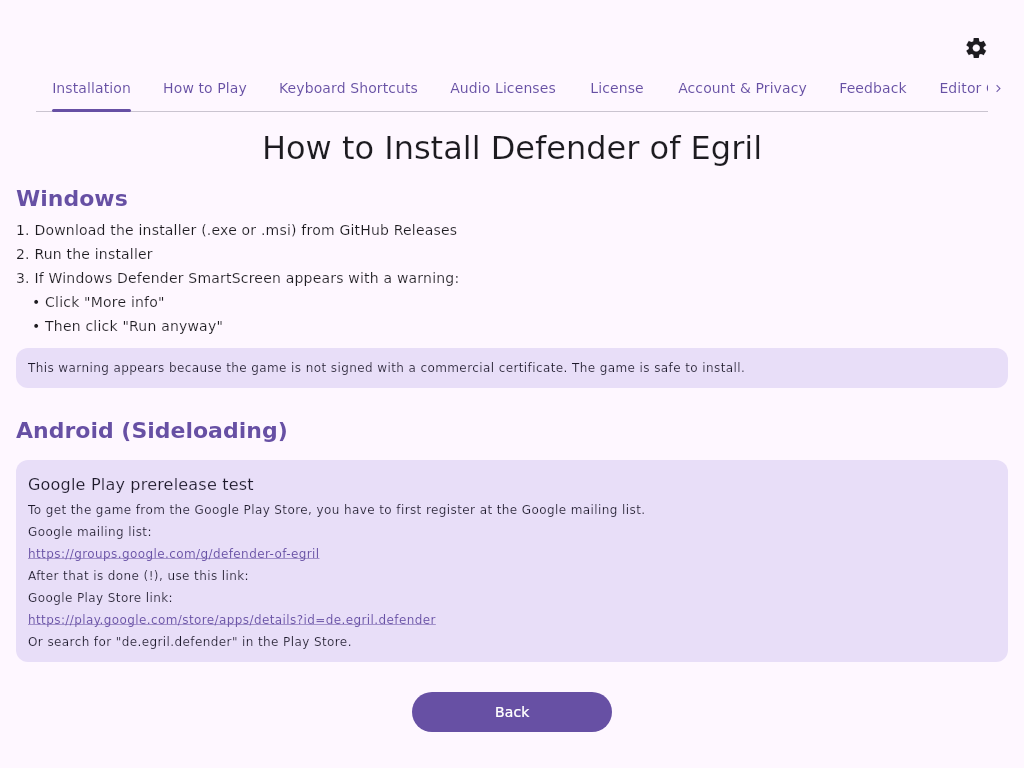
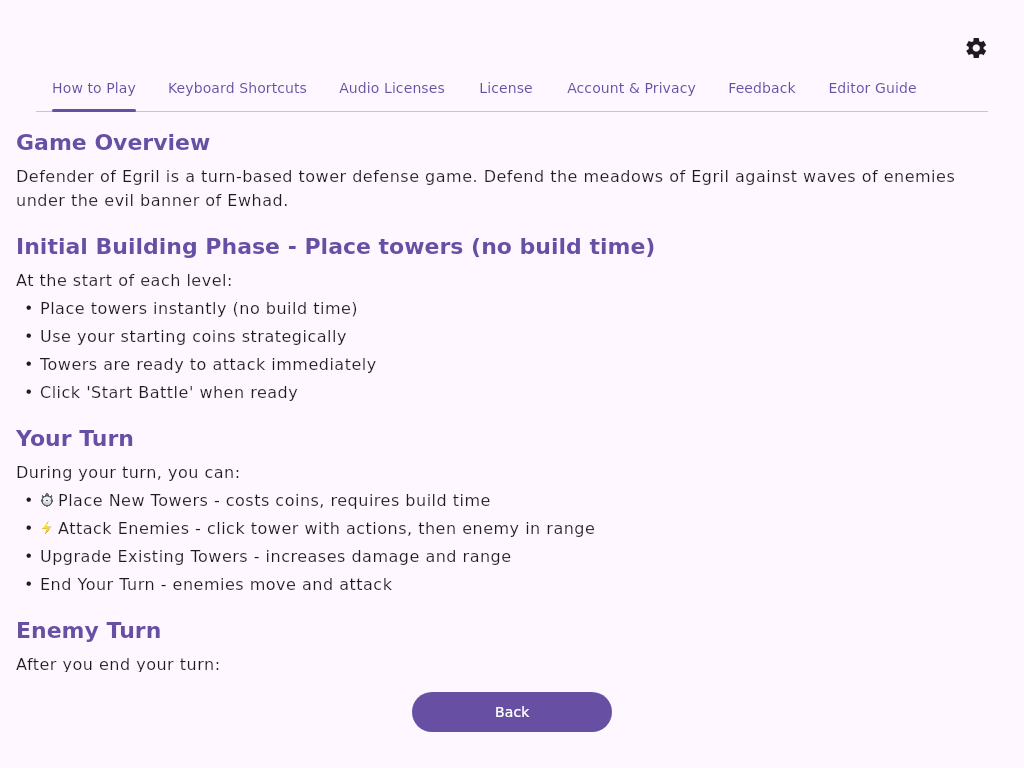
Show Installation tab only on web in Info page (#441)
* Hide installation tab on non-web info pages

* test: validate web-only installation tab behavior

* Refine info tab fallback safety for web-only installation tab

diff --git a/frontend/composeApp/src/commonMain/kotlin/de/egril/defender/ui/infopage/InfoPageScreen.kt b/frontend/composeApp/src/commonMain/kotlin/de/egril/defender/ui/infopage/InfoPageScreen.kt
@@ -40,6 +40,22 @@ internal fun shouldUseCompactInfoHeaderLayout(
     isLandscape: Boolean
 ): Boolean = isMobileWeb && isLandscape
 
+internal fun buildVisibleInfoTabs(
+    showDownloadTab: Boolean,
+    showInstallationTab: Boolean,
+    showEditorHowToTab: Boolean
+): List<InfoTab> = buildList {
+    if (showDownloadTab) add(InfoTab.DOWNLOAD)
+    if (showInstallationTab) add(InfoTab.INSTALLATION)
+    add(InfoTab.HOW_TO_PLAY)
+    add(InfoTab.KEYBOARD_SHORTCUTS)
+    add(InfoTab.AUDIO_LICENSES)
+    add(InfoTab.LICENSE)
+    add(InfoTab.BACKEND)
+    add(InfoTab.FEEDBACK)
+    if (showEditorHowToTab) add(InfoTab.EDITOR_HOWTO)
+}
+
 @Composable
 fun InfoPageScreen(
     onBack: () -> Unit,
@@ -47,23 +63,21 @@ fun InfoPageScreen(
 ) {
     var selectedTab by remember { mutableStateOf(initialTab) }
 
-    val visibleTabs = remember(isEditorAvailable()) {
-        buildList {
-            if (isPlatformWasm && WithImpressum.withImpressum) add(InfoTab.DOWNLOAD)
-            add(InfoTab.INSTALLATION)
-            add(InfoTab.HOW_TO_PLAY)
-            add(InfoTab.KEYBOARD_SHORTCUTS)
-            add(InfoTab.AUDIO_LICENSES)
-            add(InfoTab.LICENSE)
-            add(InfoTab.BACKEND)
-            add(InfoTab.FEEDBACK)
-            if (isEditorAvailable()) add(InfoTab.EDITOR_HOWTO)
-        }
+    val editorAvailable = isEditorAvailable()
+    val showInstallationTab = isPlatformWasm
+    val visibleTabs = remember(editorAvailable, showInstallationTab) {
+        buildVisibleInfoTabs(
+            showDownloadTab = isPlatformWasm && WithImpressum.withImpressum,
+            showInstallationTab = showInstallationTab,
+            showEditorHowToTab = editorAvailable
+        )
     }
+    // Defensive guard: keep behavior safe if future tab visibility rules are tightened.
+    require(visibleTabs.isNotEmpty()) { "InfoPageScreen requires at least one visible tab" }
 
-    // If the initial tab is not visible (e.g. EDITOR_HOWTO on mobile), fall back to INSTALLATION
+    // If the initial tab is not visible (e.g. hidden on this platform), fall back to the first visible tab
     if (selectedTab !in visibleTabs) {
-        selectedTab = InfoTab.INSTALLATION
+        selectedTab = visibleTabs.first()
     }
 
     val selectedTabIndex = visibleTabs.indexOf(selectedTab).coerceAtLeast(0)
@@ -131,8 +145,12 @@ fun InfoPageScreen(
                         }
                         Key.I -> {
                             if (selectedTab == InfoTab.DOWNLOAD && !event.isCtrlPressed && !event.isAltPressed) {
-                                selectedTab = InfoTab.INSTALLATION
-                                true
+                                if (InfoTab.INSTALLATION in visibleTabs) {
+                                    selectedTab = InfoTab.INSTALLATION
+                                    true
+                                } else {
+                                    false
+                                }
                             } else {
                                 false
                             }
@@ -245,7 +263,15 @@ fun InfoPageScreen(
                         InfoTab.BACKEND -> BackendInfo(scrollState = contentScrollState)
                         InfoTab.FEEDBACK -> FeedbackInfo(scrollState = contentScrollState)
                         InfoTab.EDITOR_HOWTO -> EditorHowToContent(scrollState = contentScrollState)
-                        InfoTab.DOWNLOAD -> DownloadInfo(onNavigateToInstallation = { selectedTab = InfoTab.INSTALLATION }, scrollState = contentScrollState, linkFocusManager = linkFocusManager)
+                        InfoTab.DOWNLOAD -> DownloadInfo(
+                            onNavigateToInstallation = {
+                                if (InfoTab.INSTALLATION in visibleTabs) {
+                                    selectedTab = InfoTab.INSTALLATION
+                                }
+                            },
+                            scrollState = contentScrollState,
+                            linkFocusManager = linkFocusManager
+                        )
                     }
                 }
                 

diff --git a/frontend/composeApp/src/desktopTest/kotlin/de/egril/defender/ui/infopage/InfoPageLayoutDecisionTest.kt b/frontend/composeApp/src/desktopTest/kotlin/de/egril/defender/ui/infopage/InfoPageLayoutDecisionTest.kt
@@ -35,4 +35,26 @@ class InfoPageLayoutDecisionTest {
             )
         )
     }
+
+    @Test
+    fun installationTabIsHiddenWhenPlatformIsNotWeb() {
+        val tabs = buildVisibleInfoTabs(
+            showDownloadTab = false,
+            showInstallationTab = false,
+            showEditorHowToTab = false
+        )
+
+        assertFalse(InfoTab.INSTALLATION in tabs)
+    }
+
+    @Test
+    fun installationTabIsShownOnWeb() {
+        val tabs = buildVisibleInfoTabs(
+            showDownloadTab = true,
+            showInstallationTab = true,
+            showEditorHowToTab = false
+        )
+
+        assertTrue(InfoTab.INSTALLATION in tabs)
+    }
 }
